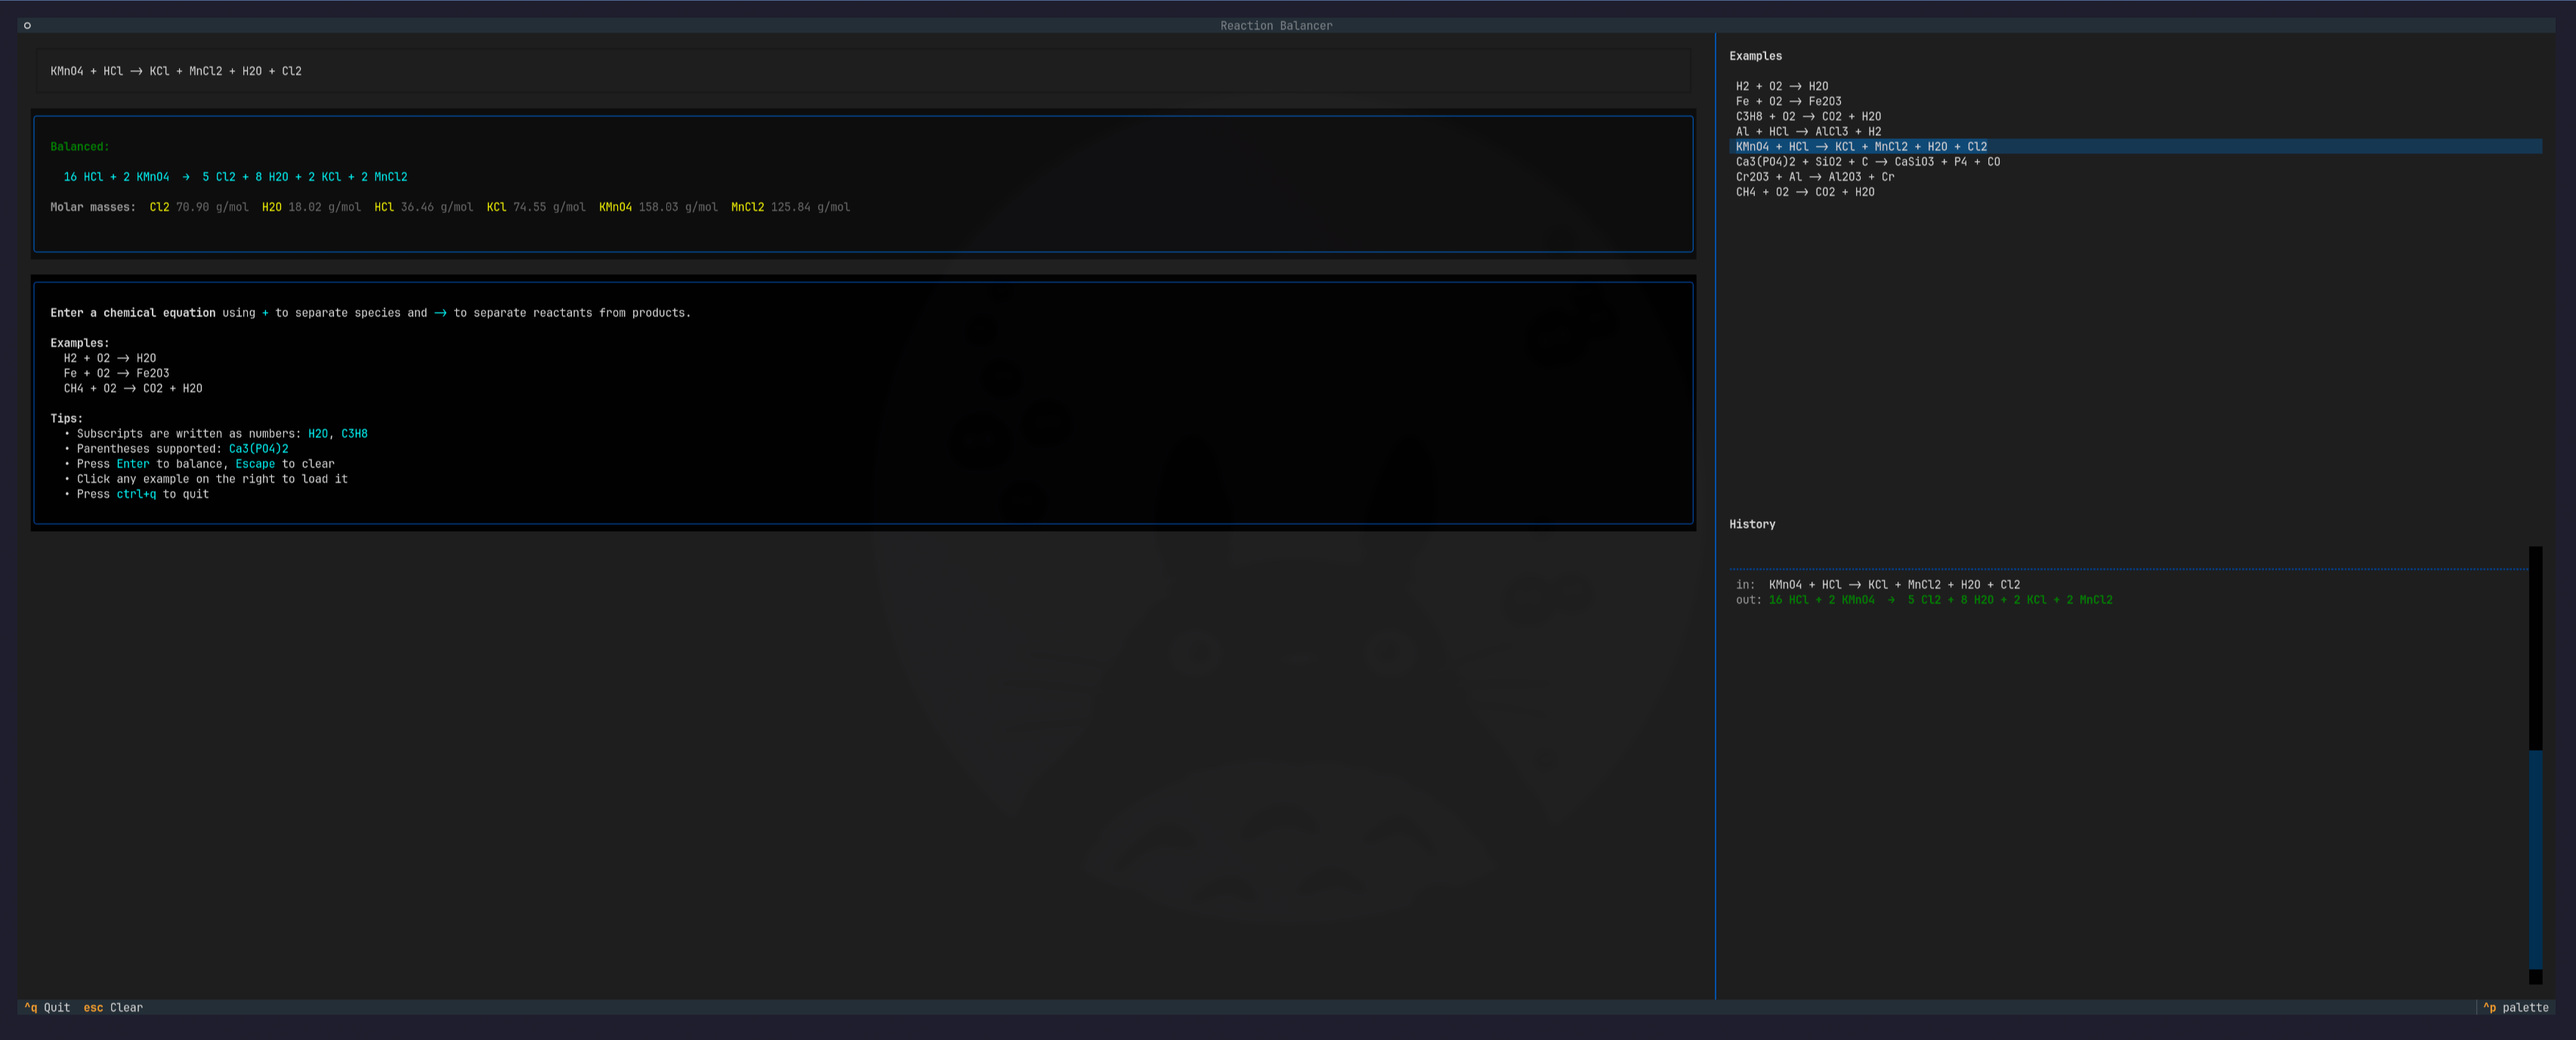
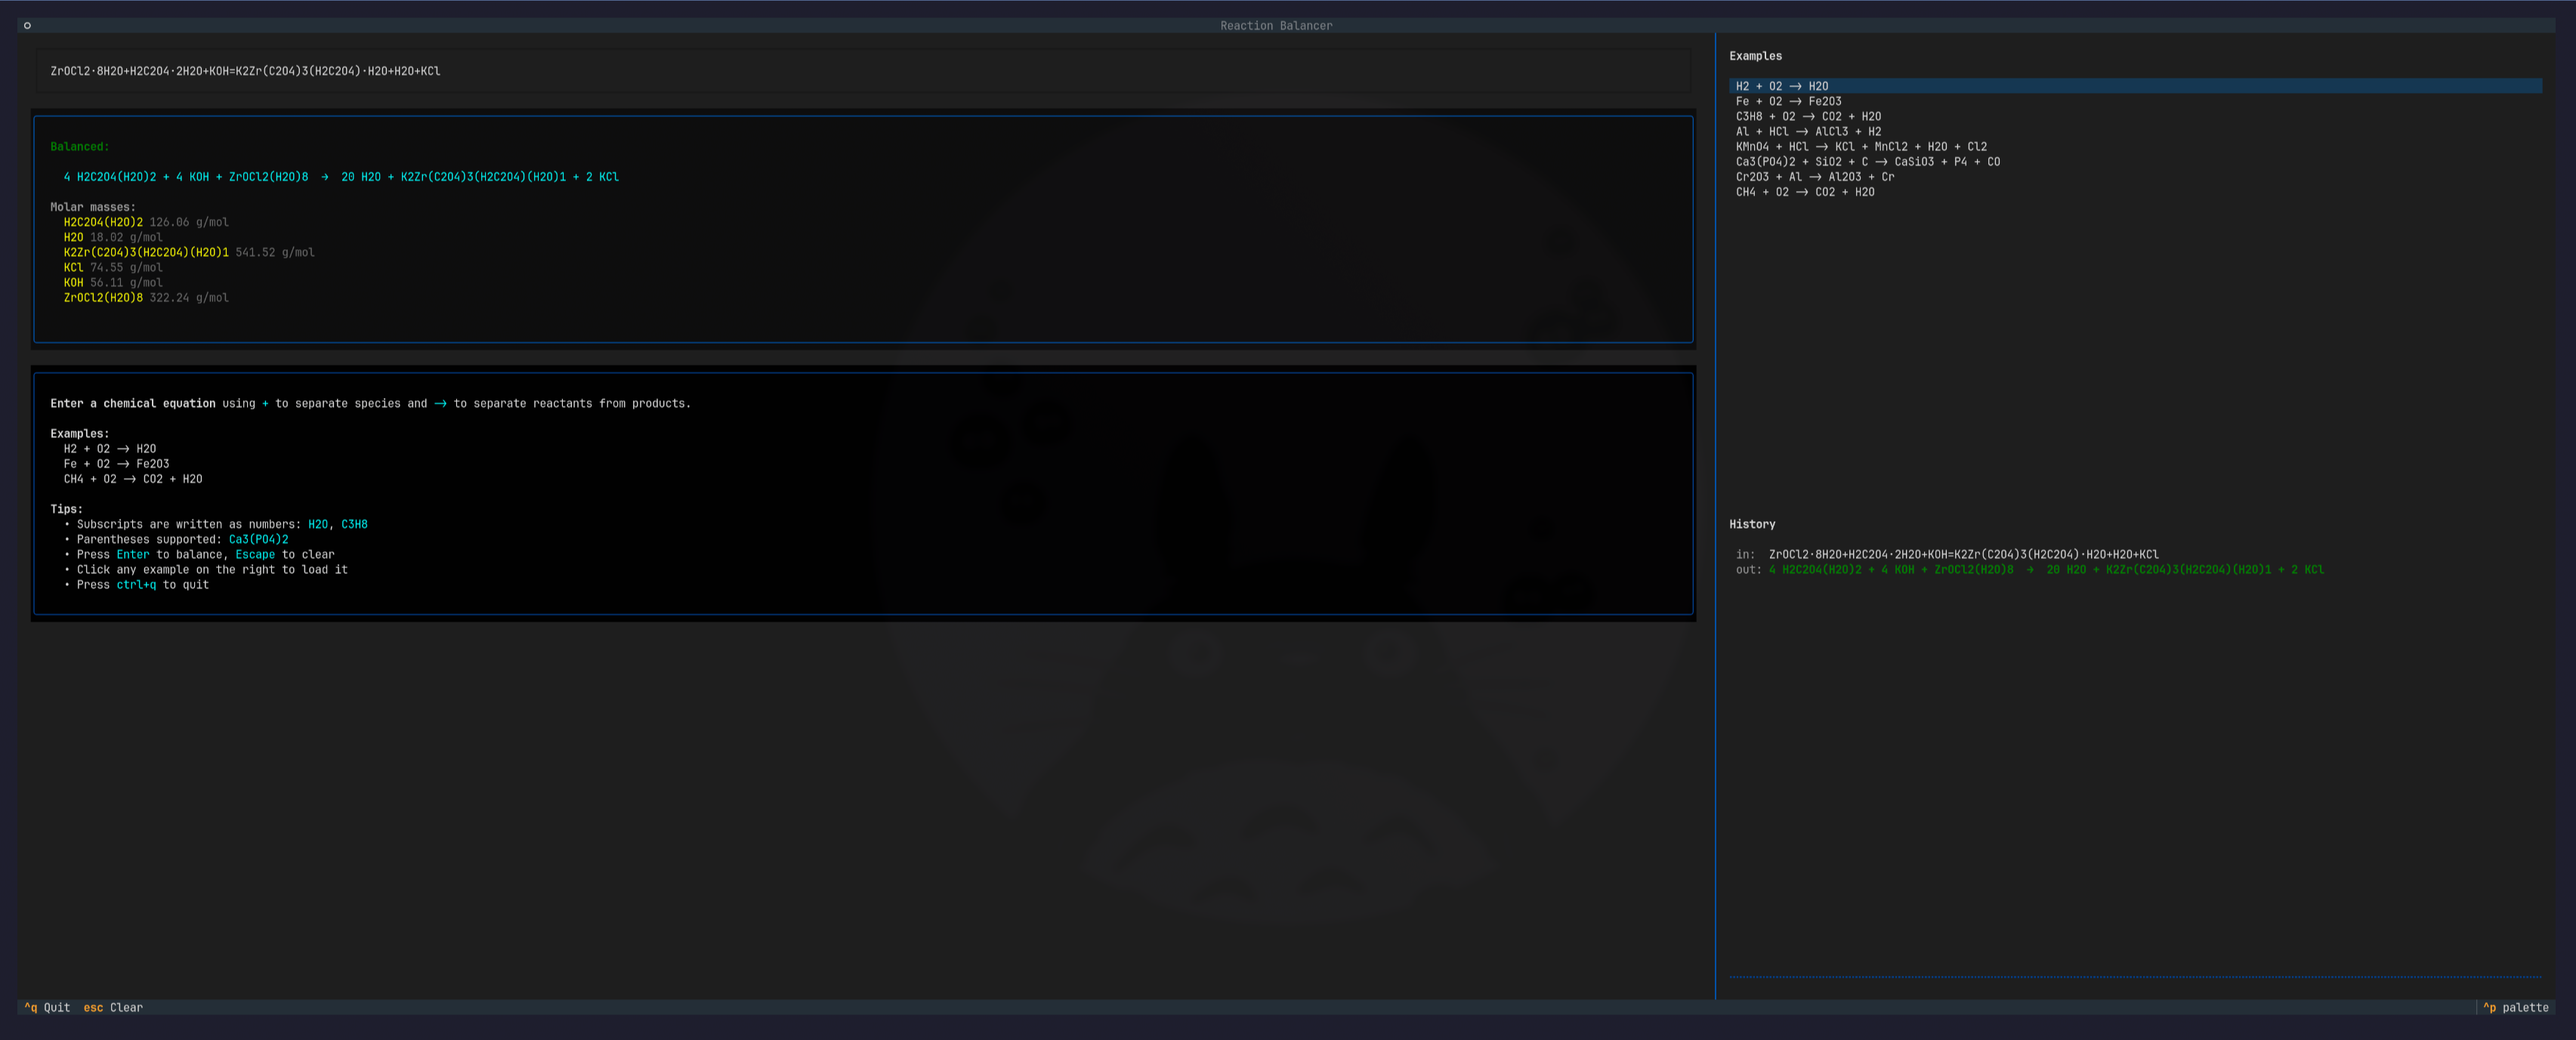
Fixes an error where not every molar mass was shown for large reactions

diff --git a/main.py b/main.py
@@ -241,14 +241,14 @@ class ReactionBalancerApp(App):
         result_label = self.query_one("#result-label", Label)
         try:
             balanced, masses = balance(equation)
-            masses_text = "  ".join(
-                f"[yellow]{f}[/yellow] [dim]{m:.2f} g/mol[/dim]"
+            masses_text = "\n".join(
+                f"  [yellow]{f}[/yellow] [dim]{m:.2f} g/mol[/dim]"
                 for f, m in sorted(masses.items())
             )
             result_label.update(
                 f"[bold green]Balanced:[/bold green]\n\n"
                 f"  [cyan]{balanced}[/cyan]\n\n"
-                f"[bold]Molar masses:[/bold]  {masses_text}"
+                f"[bold]Molar masses:[/bold]\n{masses_text}"
             )
             self._add_history(equation, balanced)
         except Exception as e:
